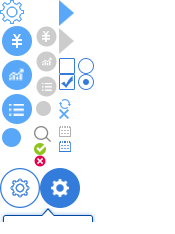
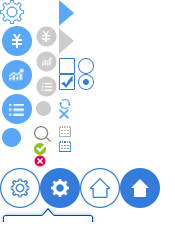
css

Changed region(s): [[0.4571, 0.7179, 0.9143, 0.8974]]

diff --git a/css/appstyle.css b/css/appstyle.css
@@ -14,10 +14,11 @@ body{overflow: hidden;}
 .DropDown{position: relative;z-index: 20;width:130px;border-right: 1px solid #ccc;border-left: 1px solid #ccc;padding-left:20px;margin-left:20px;}
 .DropDown p{line-height:20px;}
 .DropDown .DropList{position: absolute;width:98px;z-index: 20;top:60px;left:-28px;display: none;background: url("../img/dropdown.png") 0 bottom no-repeat;}
-.DropDown .DropList .ico-arrow{position: absolute;left:0;top:-14px;width:98px;height:14px;background-position:1px -378px;}
+.DropDown .DropList .ico-arrow{position: absolute;left:0;top:-14px;width:98px;height:14px;background-position:1px -208px;border:0;background-image: url('../img/ico.png');}
 .DropDown .DropList ul{margin:0 5px;padding:0 0 8px 0;}
 .DropDown .DropList li{margin:5px 0;}
 .DropDown .DropList li a{display:block;height:30px;line-height:30px;color:#666;text-align:center;font-size:12px;}
+.DropDown .DropList li a:hover{background-color: #edf5fe;}
 .DropDown.current .ico-set{background-position:-40px -168px;}
 .DropDown.noborder{margin:0;padding:0 20px 0 0;}
 .footer{position: fixed;bottom:0;left:0;width: 100%;height:38px;line-height:38px;border-top:2px solid #666;text-align: center;background: #343434;color: #fff;z-index: 20;}

diff --git a/account.html b/account.html
@@ -72,11 +72,23 @@
                 </div>
             </div>
             <!--头像 over-->
-            <!--plus btn begin-->
+            <!--set btn begin-->
             <div class="DropDown clearfix noborder floatright" style="width:auto;">
                 <span class="UserImg block"><i class="Icon ico-set"></i></span>
             </div>
-            <!--plus btn over-->
+            <!--set btn over-->
+            <!--home btn begin-->
+            <div class="DropDown clearfix noborder floatright" style="width:auto;">
+                <span class="UserImg block"><i class="Icon ico-home"></i></span>
+                <div class="DropList">
+                    <i class="Icon ico-arrow"></i>
+                    <ul>
+                        <li><a href="#">切换网络</a></li>
+                        <li><a href="#">安全退出</a></li>
+                    </ul>
+                </div>
+            </div>
+            <!--home btn over-->
         </div>
         <!--右侧头像和发起按钮 over-->
         <span class="back_md floatright font22 color-3">企业理财</span>

diff --git a/css/global.css b/css/global.css
@@ -164,7 +164,9 @@ a.add:hover{text-decoration: underline;}
 .account_de .select:hover{z-index:15;}
 /*图标*/
 .Icon{font-size:0;line-height:0;display:inline-block;position: relative;background-image:url("../img/ico.png");}
-.ico-set{width:40px;height:40px;background-position:0 -168px;}
+.ico-set,.ico-home{width:40px;height:40px;background-position:0 -168px;}
+.ico-home{background-position:-80px -168px;}
+.current .ico-home{background-position:-120px -168px;}
 .ico-arrow{width:0;height:0;background-image:none;border-color:#9e9e9e #fff #fff #fff;border-style:solid;border-width:4px 4px 0 4px;position: absolute;top:11px;right:10px;}
 .select:hover .ico-arrow{border-color:#fff #fff #9e9e9e #fff;border-width:0 4px 4px 4px;}
 .account_de .select .ico-arrow{border-color:#347cdc #fff #fff #fff;}
